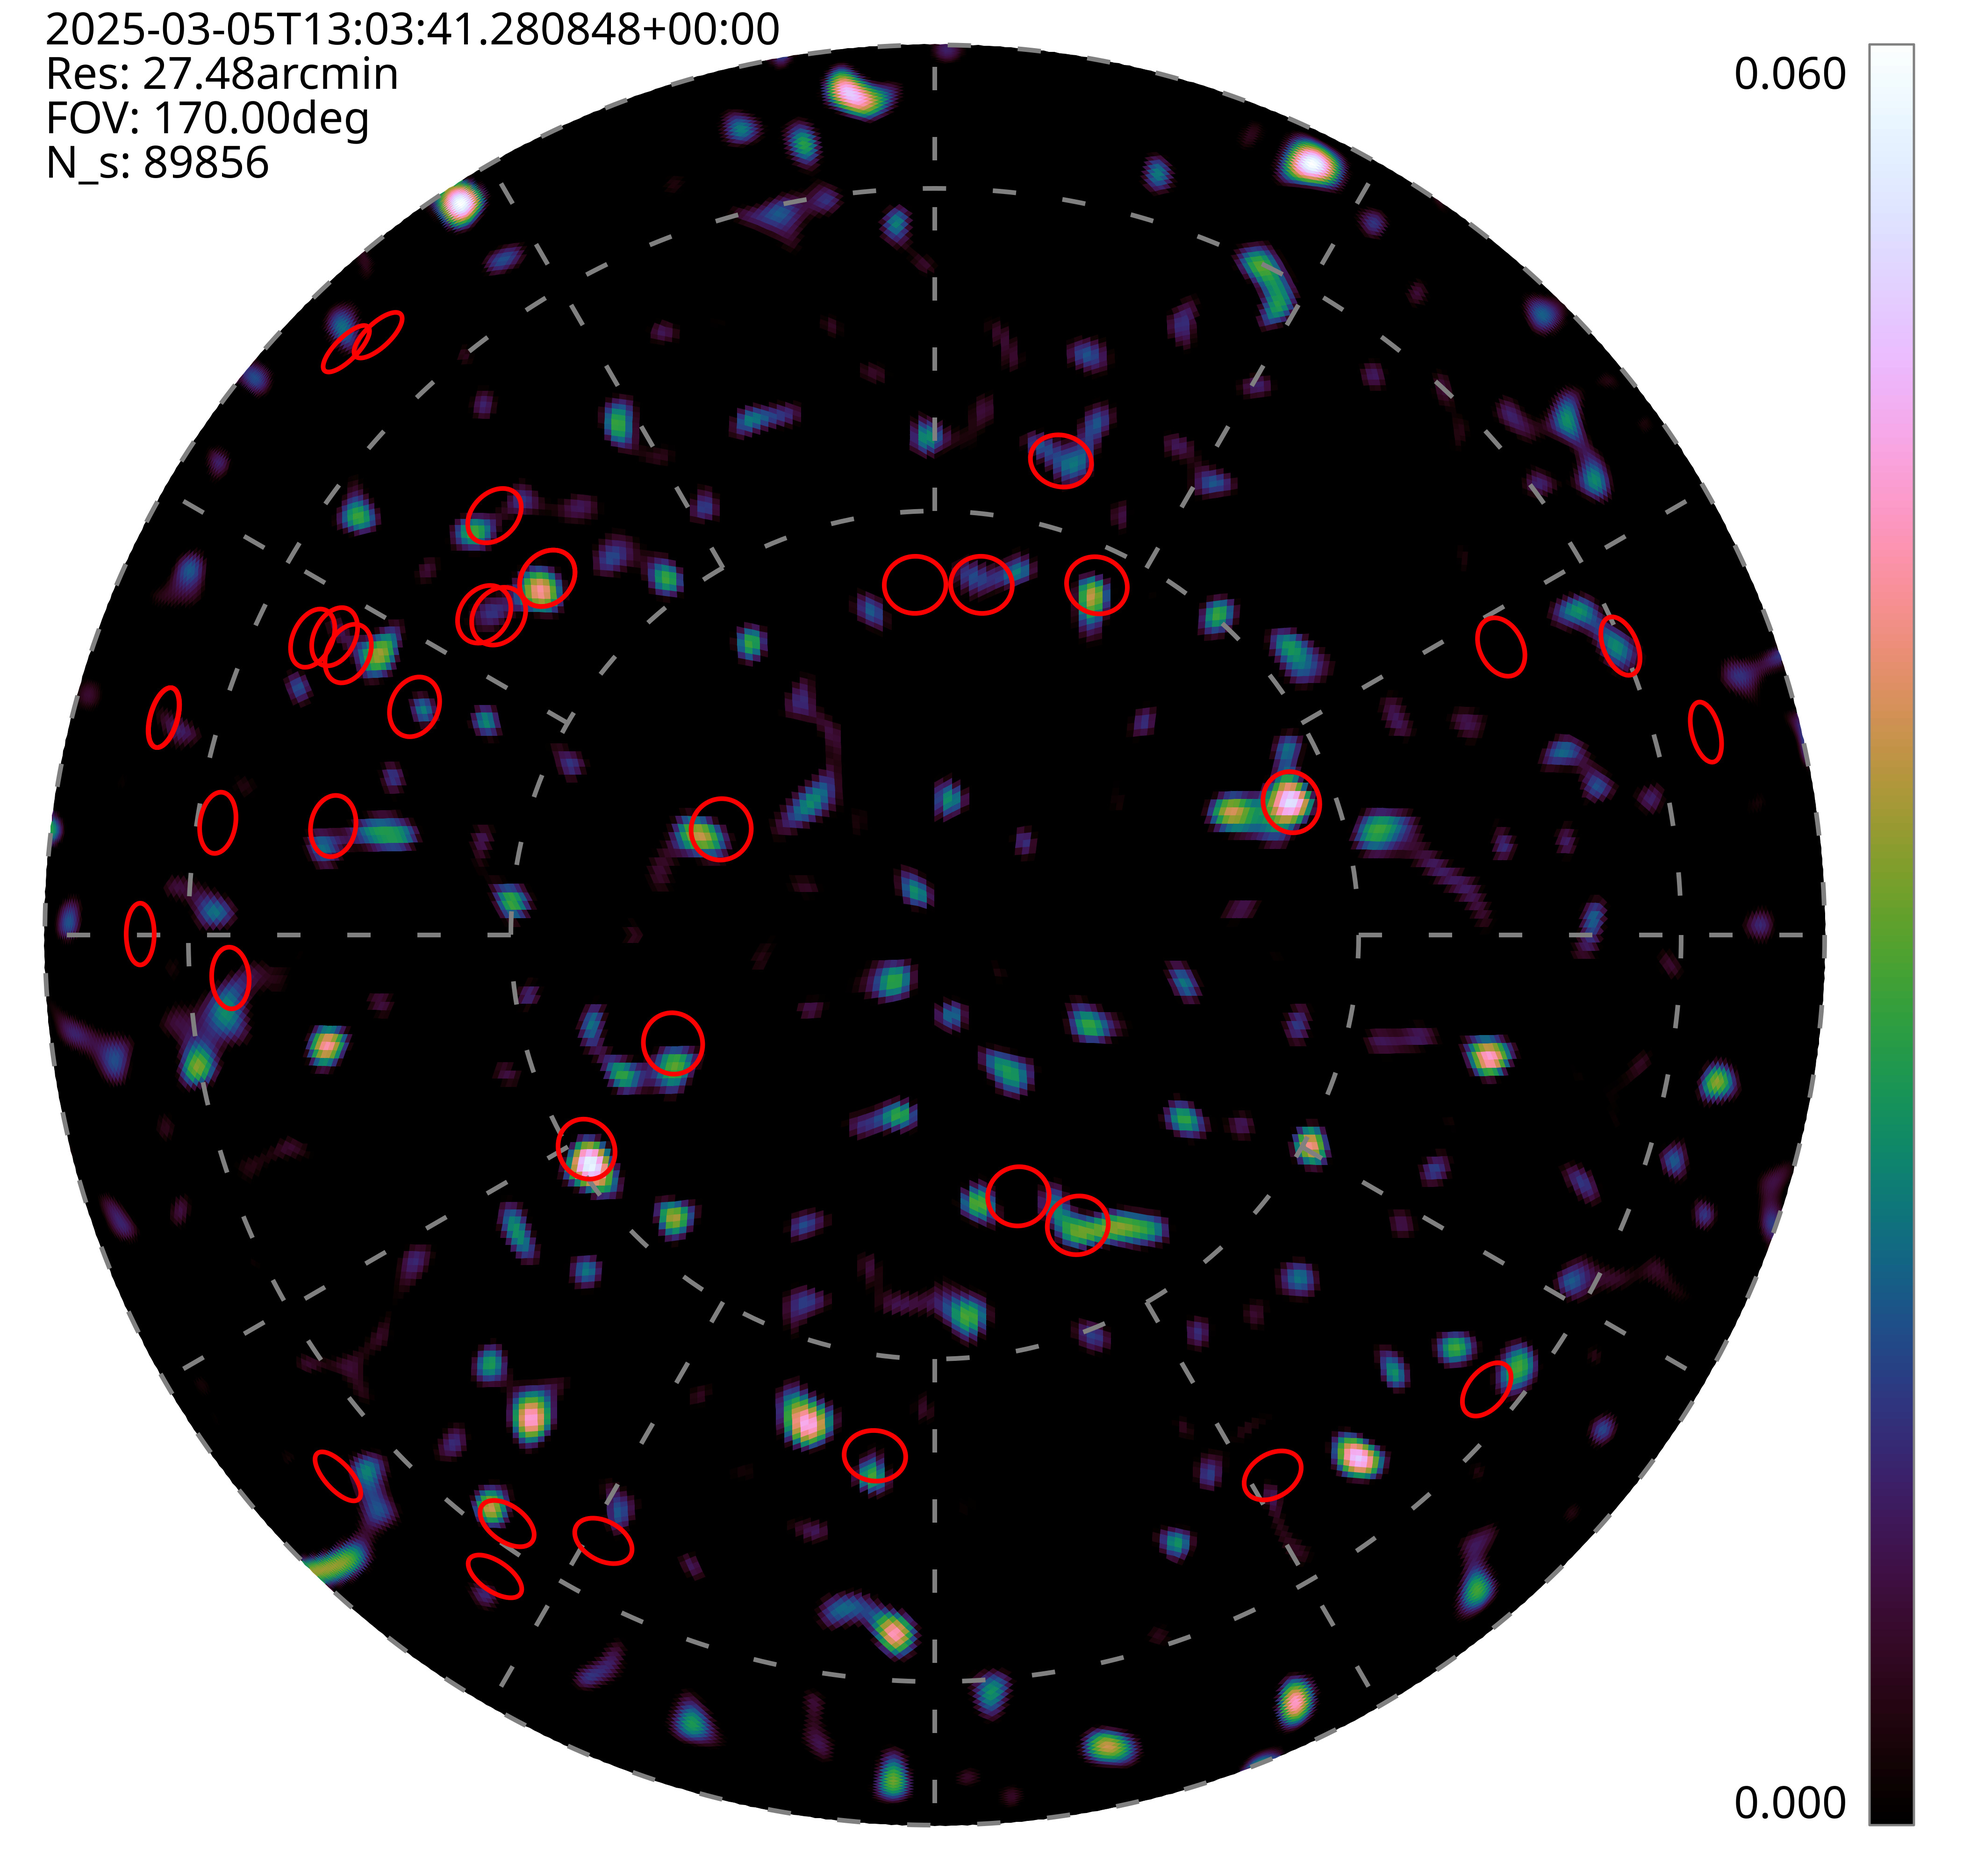
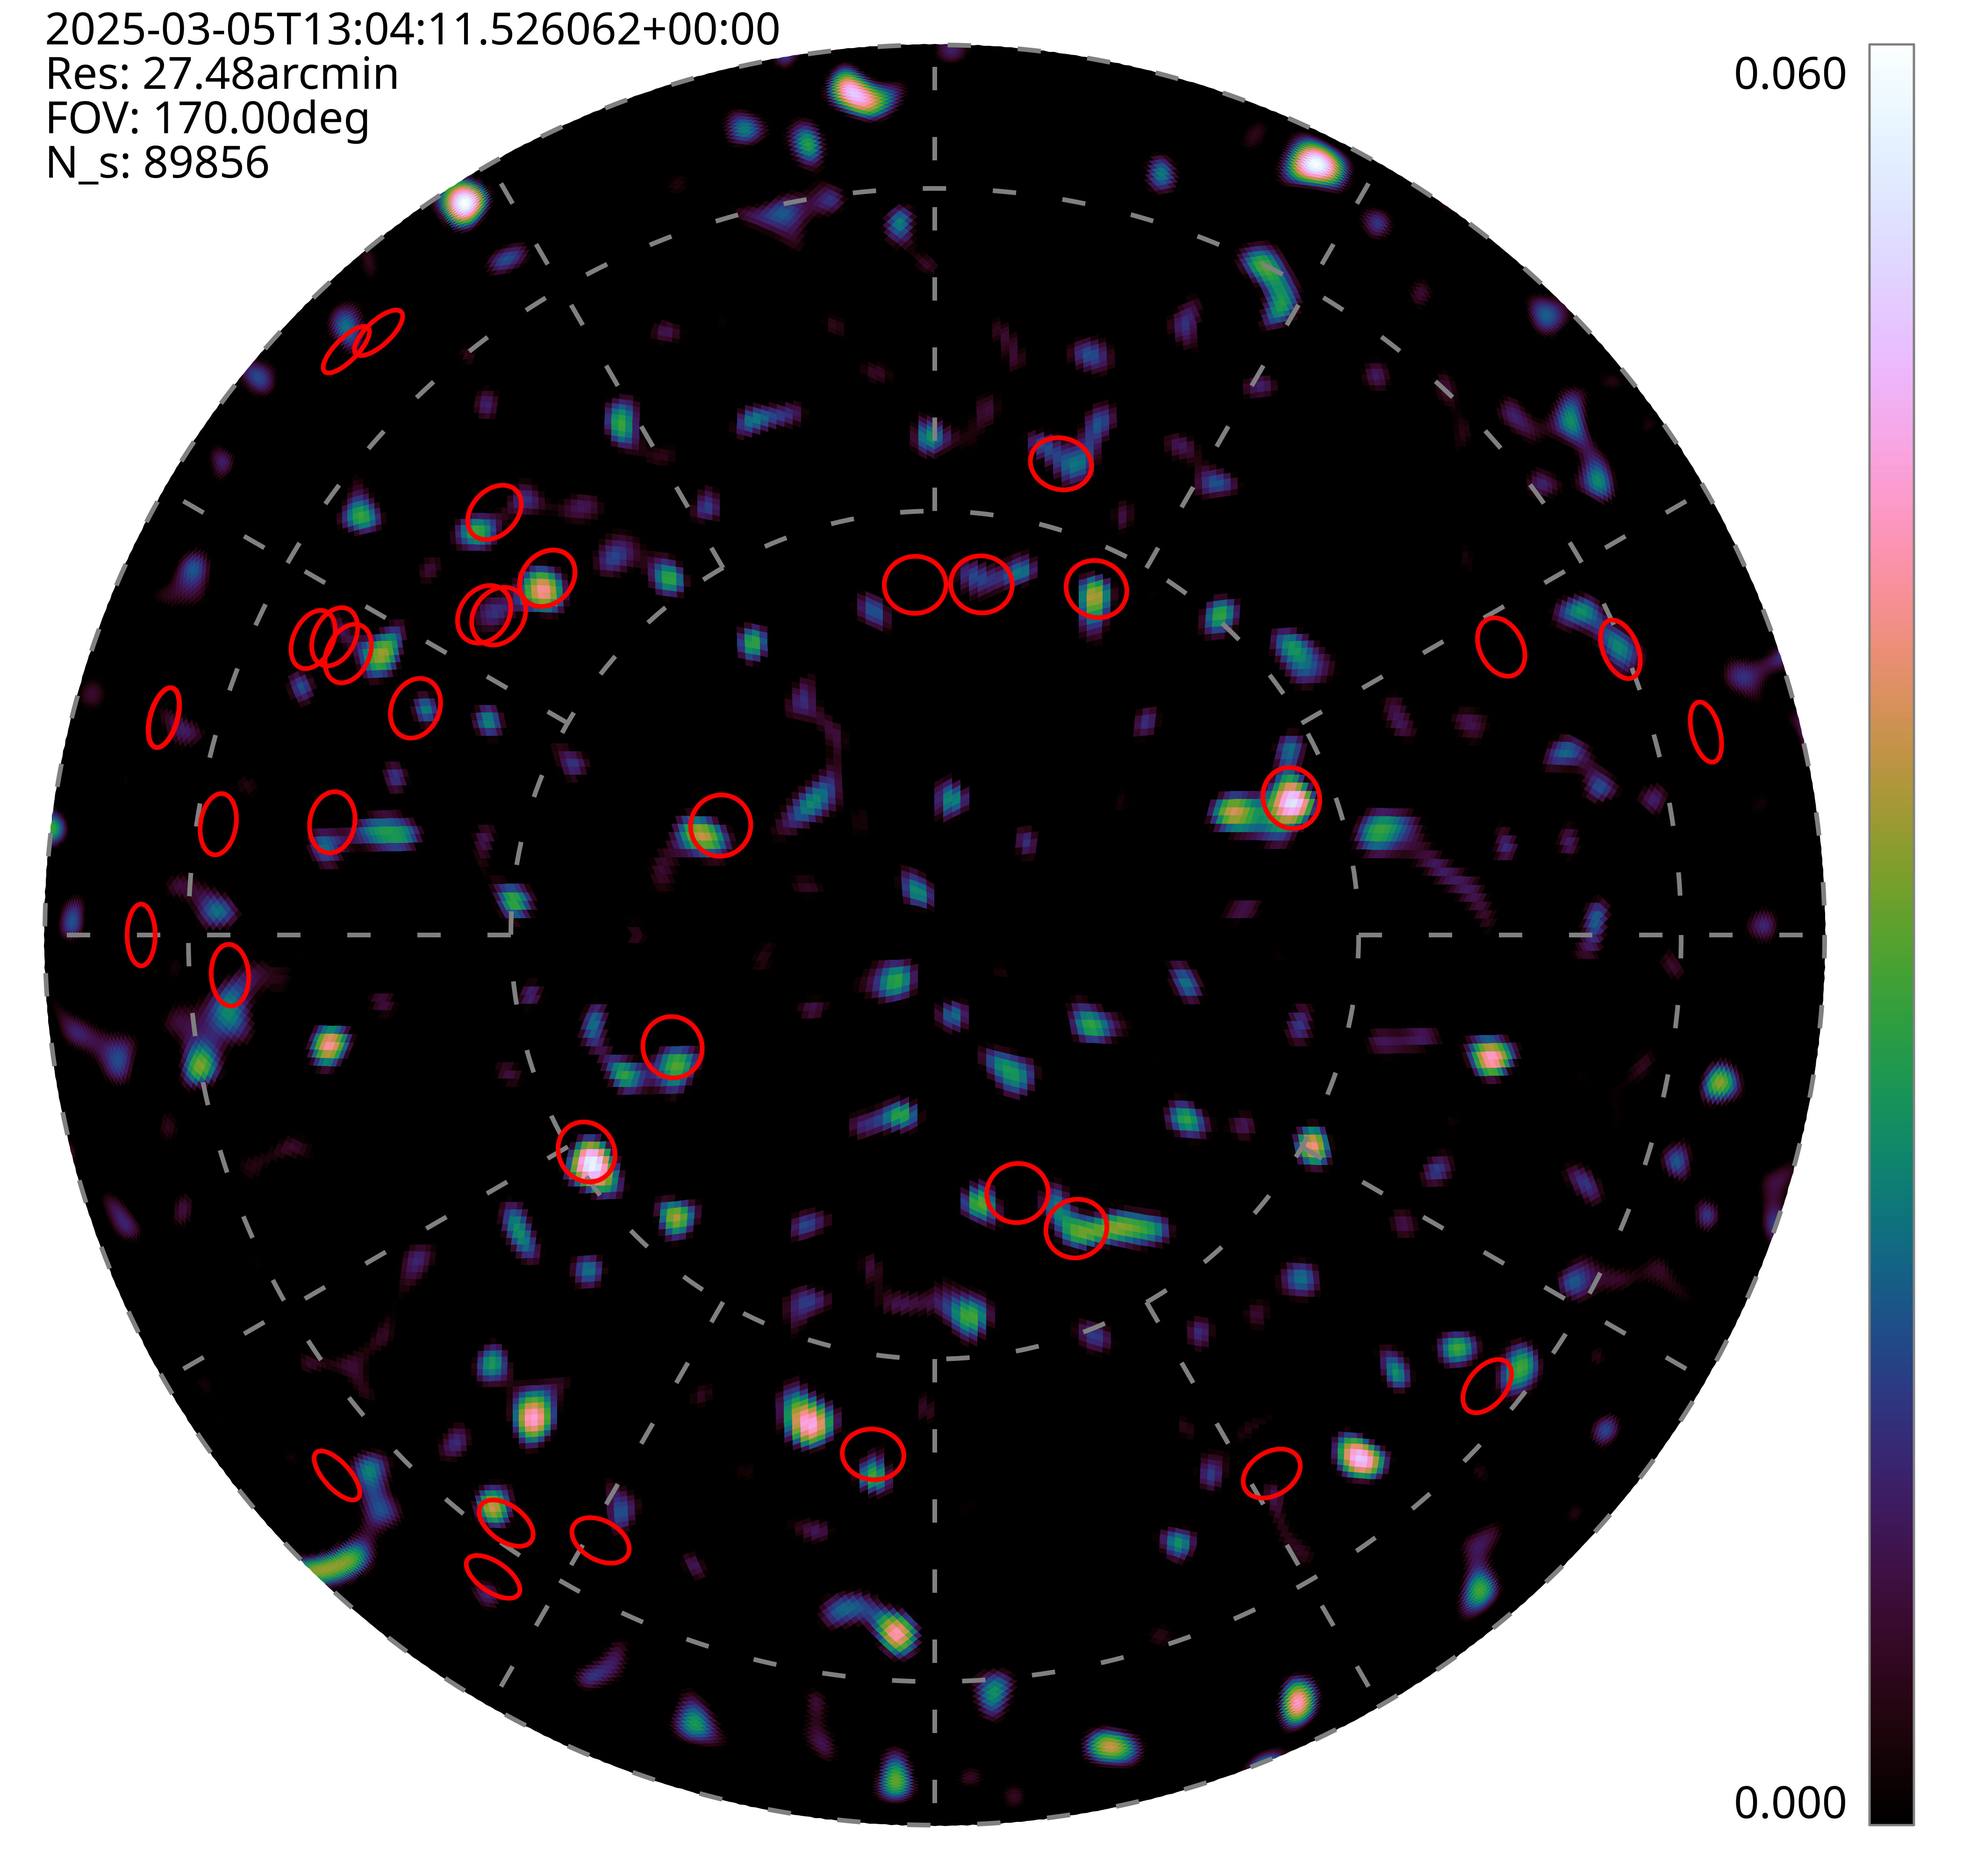
Rephase observation to midpoint

diff --git a/README.md b/README.md
@@ -12,9 +12,9 @@ Containerized tools for using the TART radio telescope. This repository creates 
 
     tart_tools tart_download_data --vis --api https://api.elec.ac.nz/tart/mu-udm --n 1
 
-    tart_tools tart2ms --hdf vis_2025-03-05_13_04_41.765325.hdf --ms udm.ms
+    tart_tools tart2ms --hdf vis_2025-03-05_13_04_41.765325.hdf --single-field --rephase obs-midpoint --ms udm.ms
     
-    tart_tools disko --ms udm.ms --healpix --fov 170deg --res 30arcmin  --lasso --alpha 0.003 --HDF tart_udm_image.h5
+    tart_tools disko --ms udm.ms --nvis 10000 --healpix --fov 170deg --res 30arcmin  --lasso --alpha 0.003 --HDF tart_udm_image.h5
 
 ### Draw sources on the image
 
